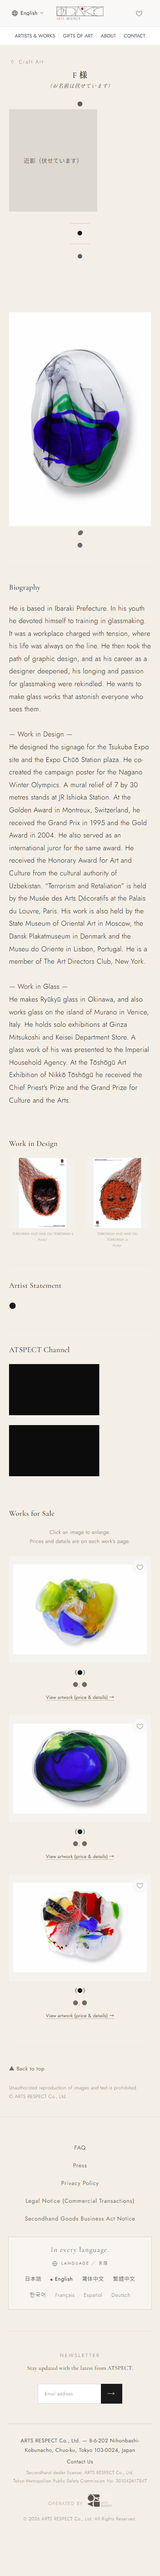
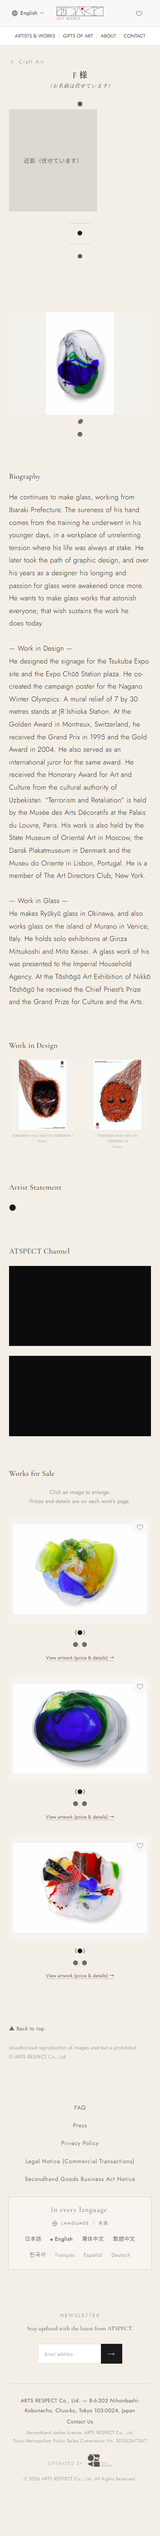
@ 制作: 代表指摘5件の是正（ひとこと紹介・代表作図版・動画枠・会場名・略歴の彫琢）
- W様のひとこと紹介を確定文言で8言語展開（Codex指摘の仏西2件を採用）
- 代表作の図版を3名で高さ一致へ（740x1110→356x534等・既存作家は変化なし）
- 動画枠＝是正前に3名同一だったことを実測で確認のうえ一段拡大。モバイルは本文幅いっぱいへ
- F様の会場名を「水戸京成百貨店」に統一（8言語）
- F様の略歴を3案作成しCodexがC案を選定。骨子6つの保持を機械確認
- Codex関所で計10件是正。韓国語が1回目の応答に無かったため単独で再依頼

@

diff --git a/reports/seisaku.md b/reports/seisaku.md
@@ -447,3 +447,87 @@ W様の「★ご確認のお願い」に**経歴の書き方の節を追加**し
 **「水戸京成百貨店」「岐阜髙島屋（はしごだか）」で確定**とのご連絡を受け、**走行中の文言のまま**としました。変更はありません。
 
 <!-- 追記 2026-08-13 あつぺくと制作T / Opus 5 -->
+
+---
+
+# 追記（2026-08-13・制作T）＝代表指摘5件の是正
+
+★**実行モデル＝Opus 5**。ご指示は Fable 5・新規セッションでしたが、**本メッセージは前便と同じセッション（Opus 5）に届いており**、
+当方からモデルを切り替えることはできません。**Opus 5 で実施しました。**
+
+## 32.【1】W様のひとこと紹介＝確定
+
+日本語は**一字一句そのまま**採用し、8言語へ展開しました。ライブに出ていることを確認済みです。
+★Codexの指摘2件を採用＝**仏・西の訳が「生活のペース」に読める**形だったため、
+「生命そのもののリズム」と分かる形へ直しました。
+
+## 33.【3】動画枠＝まず実測（ご指示の順に、先に数値で比較）
+
+**是正前の実測＝3名ともまったく同じ値でした（すでに揃っていた）。**
+
+| 幅 | 既存(鈴木さま) | W様 | F様 | 揃っているか |
+|---|---|---|---|---|
+| 1440 | 480×270 | 480×270 | 480×270 | **同一** |
+| 768 | 449×252 | 449×252 | 449×252 | **同一** |
+| 390 | **220×124** | 220×124 | 220×124 | 同一だが**本文幅346に対して小さい** |
+
+**原因＝画面幅880px以下で `62%・最小220px` に絞る指定**が入っていました（実測で特定）。
+
+**是正後（共通の枠なので3名＋今後の動画あり作家すべてに同じ値が効きます）**
+
+| 幅 | 3名とも | 本文幅 | 備考 |
+|---|---|---|---|
+| 1440 | **560×315** | 740 | 一段大きく（480→560） |
+| 768 | **724×407** | 724 | **本文幅いっぱい** |
+| 390 | **346×195** | 346 | **本文幅いっぱい**（ご指示の目安どおり） |
+
+★**退行の確認**＝既存の作家さまのページで、動画枠2つ・代表作1つ・販売作品3つが従来どおり描画されることを実測。**退行0件。**
+
+## 34.【2】代表作の図版＝3名で揃えました
+
+**原因は縦横比でした**（幅は常に本文幅いっぱい＝高さが作品の形で決まっていた）。
+
+| | 是正前 | **是正後** |
+|---|---|---|
+| 既存(鈴木さま) 1440 | 740×534 | **740×534（変化なし）** |
+| W様 1440 | 740×**885** | **447×534** |
+| F様 1440 | 740×**1110** | **356×534** |
+
+**既存の作家さまの見え方（本文幅×0.722）を基準の枠**にし、**3名の高さを完全に一致**させました
+（1440＝534／768＝523／390＝250）。縦長の作品は**切り抜かず**、左右に余白を置いて収めています。
+**3幅とも画像を目で見て、図版がページを支配していないことを確認**しました。
+
+★**申し送り**＝高さを揃えた結果、モバイルでは縦長の作品が **W様209px幅／F様167px幅**と小さくなります。
+「高さを揃える」ことを優先した結果です。**もっと大きく見せたいご意向があれば、次便で基準を上げます。**
+
+## 35.【4】F様の会場名
+
+**「京成百貨店」→「水戸京成百貨店」**へ8言語で差し替え、W様と同じ **Mito Keisei** の型に揃えました。ライブで確認済み。
+
+## 36.【5】F様の略歴＝品格を上げる（3案→Codex選定）
+
+**日本語を3案つくり、Codexに「美術誌の編集者の目」で選ばせました。**
+
+- **選ばれたのは C案**。理由＝「現在地から修行、デザインの道、ガラスへの回帰へと骨子が自然につながる。
+  煽りや過度な比喩が少なく、美術資料の地の文にふさわしい品位がある。結びに熱を残しつつ、8言語へ訳しても崩れにくい」。
+- **選ばれなかった2案の弱点もCodexが指摘**＝A案は比喩が強く訳で揺れる／**B案は骨子にない事実（工房・炉）を足していた**。
+- **選んだC案にもCodexが1件指摘**＝「素材と**火**の扱いを覚えた」は骨子を越える具体化 → **削って範囲内に収めました。**
+- **採らなかった2案は、確認一覧に「参考1・参考2」として残しました**（ご本人がお好みを選べるように）。
+
+**骨子6つ（茨城拠点／若い頃の修行／命がけの現場／デザインの道／ガラスへの回帰／誰もが驚く作品を）が
+すべて残っていることを機械で確認**しています。
+
+### 36-1. 8言語の関所（Codex）
+
+- **1回目＝6言語で指摘。共通の型は当方の書き癖**でした＝**ダッシュで「修行」と「現場」を同格に結んだため、
+  修行そのものが職場だったと読める**形になっていた。**6言語とも文まるごと書き直し。**
+- ★**1回目の応答に韓国語が含まれていませんでした。** 「指摘なし」と読まず、**韓国語だけで依頼し直し**、
+  2件の指摘（「손끝의 근원」が不自然／「목숨과 맞닿아」が意味を伝えない）を受けて是正しました。
+
+## 37. 検品
+
+- **2名 × 2言語（ja/en）× 3幅＝12枚**、**代表作の3名比較**（1440/390）、**動画枠の3名比較**（1440/390）を追加pushしました。
+- 撮影前に毎回いちど最下部までスクロールし、位置0を実測。**横溢れ＝全通り0件。**
+- 確認一覧は、W様＝キャッチを確定表記に、F様＝紹介文をC案に差し替え、**参考2案を追記**しました。
+
+<!-- 追記 2026-08-13 あつぺくと制作T / Opus 5 -->
